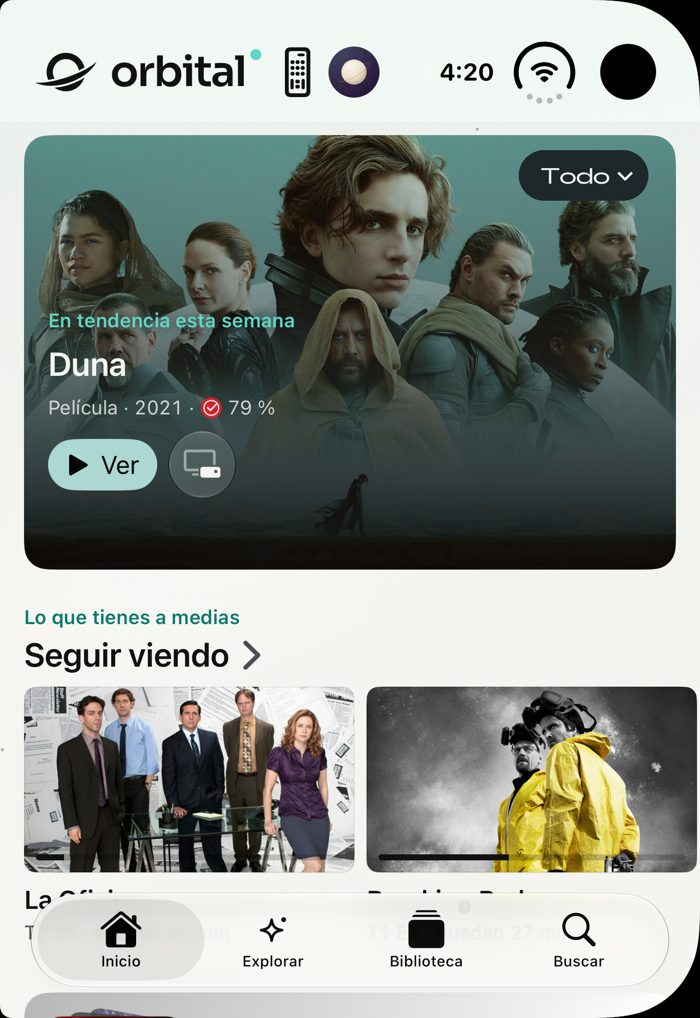
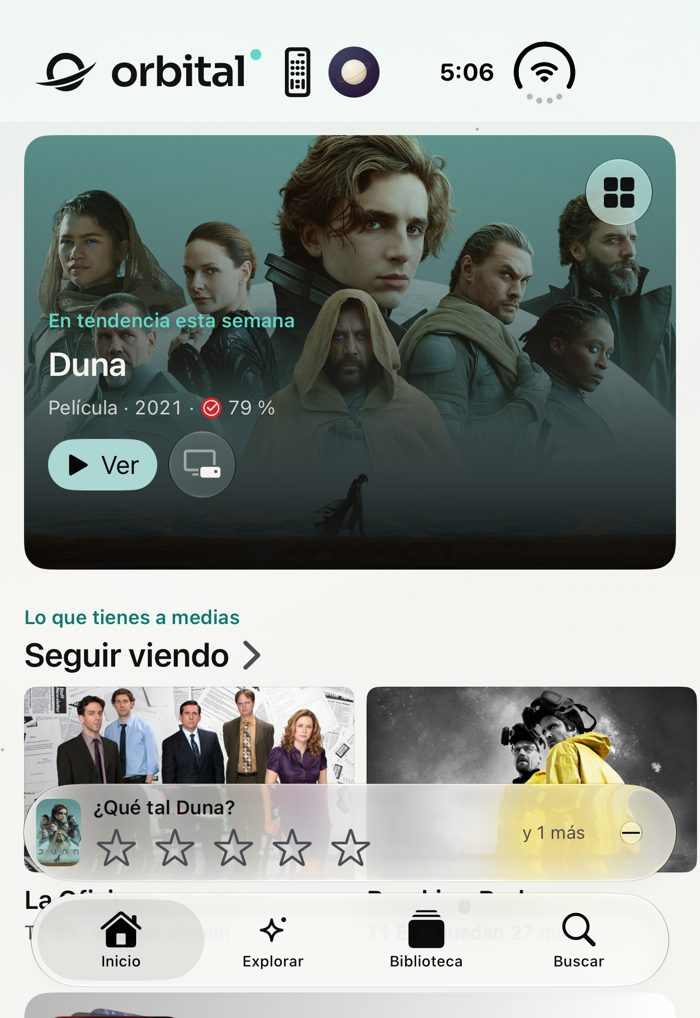
Duo: HB1-A y HB1-B construidas detrás de -demo-hb a|b (solo Debug; sin bandera, como hoy) y tocadas con HB1CaptureUITests. A: tu foto abre un globo con el filtro y Ajustes (un Menu de iOS mandaba el renglón a «…»). B: la pastilla del filtro en la esquina de la portada. Canvas con capturas reales htt

diff --git a/docs/producto/iphone-duo-2026-11-26/hb/index.html b/docs/producto/iphone-duo-2026-11-26/hb/index.html
@@ -76,36 +76,53 @@ section.decision { display: grid; gap: 14px; }
 <main>
   <div class="intro">
     <h1>Control, Ajustes y filtro en el Duo</h1>
-    <p>En el renglón de arriba del Duo cerrado caben tres cosas junto a «orbital». Hoy son el control y tu foto (Ajustes), y el filtro «Todo» se quedó fuera. Tres formas de que quepan las tres. «Hoy» es una captura real; las opciones son maquetas sobre esa captura.</p>
+    <p>Ahora son capturas reales del Duo cerrado, con los íconos que ya usa Orbital: la pastilla de vidrio del filtro (cuadritos, rollo y pantallas), el control y el engrane de Ajustes. Las dos opciones están construidas y las probé tocando.</p>
   </div>
   <section class="decision">
-    <div class="dhead"><span class="code">HB1</span><h2>Dónde va cada cosa</h2></div>
+    <div class="dhead"><h2>El problema, visto como diseño</h2></div>
+    <div class="notes">
+      <p><b>El renglón no se estira.</b> iOS fija la hora y la señal junto a la cámara. A la izquierda caben «orbital» y dos botones chicos; un tercero o un menú de iOS manda todo a «…» (lo probé).</p>
+      <p><b>Las tres cosas no pesan igual.</b> El control lo usas muchas veces al día, el filtro de vez en cuando y Ajustes casi nunca. Lo frecuente va a un toque y lo raro puede ir a dos.</p>
+      <p><b>El filtro cambia toda la página</b> (portada, «Seguir viendo», canales), no solo la portada.</p>
+    </div>
+  </section>
+  <section class="decision">
+    <div class="dhead"><span class="code">HB1</span><h2>Dónde va el filtro (y Ajustes)</h2></div>
     <div class="options">
-      <article class="opt today">
-        <header><h3>Hoy</h3><span class="tag grey">así está</span></header>
-        <img src="img/hoy.jpg" alt="Inicio en el Duo hoy: logo, control y tu foto arriba; sin el filtro" loading="lazy">
-        <ul><li class="plus">El control y Ajustes, a un toque.</li><li class="minus">No hay forma de ver solo películas o solo series.</li></ul>
-      </article>
       <article class="opt pick">
         <header><span class="code">HB1-B</span><h3>El filtro en la portada</h3><span class="tag">recomendada</span></header>
-        <div class="pair"><figure><img src="img/b-reposo.jpg" alt="El botón Todo en la esquina de la portada" loading="lazy"><figcaption>En reposo.</figcaption></figure><figure><img src="img/b-abierto.jpg" alt="El menú Todo, Películas, Series abierto sobre la portada" loading="lazy"><figcaption>Al tocar «Todo».</figcaption></figure></div>
-        <ul><li class="plus">Arriba no cambia nada: el control y Ajustes siguen a un toque.</li><li class="plus">El filtro va justo sobre lo que filtra: la portada «En tendencia». Se entiende solo.</li><li class="minus">Tapa un poco la esquina de la imagen (por eso va oscuro, como los botones de la portada).</li></ul>
+        <div class="pair">
+          <figure><img src="img/b-reposo.jpg" alt="La pastilla del filtro, recogida, en la esquina de la portada" loading="lazy"><figcaption>En reposo: un ícono en la esquina.</figcaption></figure>
+          <figure><img src="img/b-abierto.jpg" alt="La pastilla abierta con Todo, Películas y Series" loading="lazy"><figcaption>Al tocarla se abre con los tres.</figcaption></figure>
+        </div>
+        <img src="img/b-peliculas.jpg" alt="Inicio filtrado a películas: la pastilla muestra el rollo y Seguir viendo cambia" loading="lazy">
+        <ul>
+          <li class="plus">El control y tu foto siguen a un toque. Tu foto abre Ajustes, igual que en las otras pestañas.</li>
+          <li class="plus">Es la misma pastilla que el 17 Pro tiene arriba: nada nuevo que aprender. El ícono de la esquina siempre dice qué estás viendo.</li>
+          <li class="minus">Va encima del arte. Se lee bien porque es de vidrio, pero tapa un poco la esquina.</li>
+          <li class="minus">Parece que filtra solo la portada, aunque filtra toda la página.</li>
+        </ul>
       </article>
       <article class="opt">
-        <header><span class="code">HB1-A</span><h3>Todo en tu foto</h3></header>
-        <div class="pair"><figure><img src="img/a-reposo.jpg" alt="Arriba solo el logo y tu foto" loading="lazy"><figcaption>En reposo.</figcaption></figure><figure><img src="img/a-abierto.jpg" alt="Menú de tu foto con el control de la TV, el filtro y Ajustes" loading="lazy"><figcaption>Al tocar tu foto.</figcaption></figure></div>
-        <ul><li class="plus">El renglón más limpio: solo «orbital» y tu foto.</li><li class="minus">El control, que es lo que más usas, pasa a dos toques.</li><li class="minus">El filtro queda escondido en un menú que no dice que está ahí.</li></ul>
-      </article>
-      <article class="opt">
-        <header><span class="code">HB1-C</span><h3>El control abajo, el filtro arriba</h3></header>
-        <img src="img/c-reposo.jpg" alt="Arriba logo, Todo y tu foto chocando con la hora; abajo una barra del control" loading="lazy">
-        <ul><li class="plus">El control, cerca del pulgar, como cuando algo se reproduce en la TV.</li><li class="minus">Arriba no cabe: «Todo» y tu foto chocan con la hora (en la maqueta se ve), e iOS los mandaría a «…».</li><li class="minus">Abajo, una barra más sobre el contenido.</li></ul>
+        <header><span class="code">HB1-A</span><h3>Tu foto abre un globo</h3></header>
+        <div class="pair">
+          <figure><img src="img/a-reposo.jpg" alt="Arriba: orbital, el control y tu foto; la portada limpia" loading="lazy"><figcaption>En reposo: la portada limpia.</figcaption></figure>
+          <figure><img src="img/a-abierto.jpg" alt="Globo con Qué ver en Inicio, la pastilla del filtro y Ajustes" loading="lazy"><figcaption>Al tocar tu foto.</figcaption></figure>
+        </div>
+        <img src="img/a-peliculas.jpg" alt="Con Películas elegido: la pastilla dice Películas" loading="lazy">
+        <ul>
+          <li class="plus">La portada queda limpia y el globo dice para qué es («Qué ver en Inicio»).</li>
+          <li class="plus">Con un filtro puesto, tu foto lleva su ícono chiquito: se sabe que Inicio está filtrado.</li>
+          <li class="minus">Ajustes pasa a dos toques, y solo en Inicio del Duo: en las demás pestañas tu foto abre Ajustes directo.</li>
+          <li class="minus">El filtro queda escondido: hay que saber que vive en tu foto.</li>
+        </ul>
       </article>
     </div>
+    <p class="note">En las dos, el control sigue en el renglón de arriba a un toque, y en tu 17 Pro no cambia nada.</p>
   </section>
   <section class="decision">
     <div class="dhead"><h2>Mi recomendación</h2></div>
     <p class="say">HB1-B</p>
-    <p class="why"><b>Por qué:</b> lo que más usas (el control) y Ajustes se quedan a un toque, y el filtro vive donde se nota su efecto. No le quita nada al renglón de arriba. Solo cambia en el Duo; en tu 17 Pro el filtro sigue donde está.</p>
+    <p class="why"><b>Por qué:</b> deja todo a un toque, con las mismas piezas que ya conoces, y tu foto hace lo mismo en todas las pestañas. Lo que pierde (un poco de esquina de la portada) es menos que lo que A esconde.</p>
   </section>
 </main>

diff --git a/ios/App/Sources/Screens/HomeView+BarHeader.swift b/ios/App/Sources/Screens/HomeView+BarHeader.swift
@@ -13,6 +13,20 @@ extension HomeView {
     /// Sin nada en la TV, el control de tu Orbital vive en el encabezado (con algo reproduciéndose, en el accesorio de abajo).
     var showsRemote: Bool { openRemote != nil && (tvNow.model.now == nil || !Self.hasTabAccessory) }
 
+    /// HB1 (en prueba, 27 nov 2026): dónde van el filtro de Inicio y Ajustes en el Duo. «a»: tu foto abre un menú con el filtro
+    /// y Ajustes; «b»: el filtro en la esquina de la portada. Sin bandera, como hoy (sin filtro en el Duo).
+    static var hb: String {
+        #if DEBUG
+        Demo.isOn ? Demo.value(after: "-demo-hb") ?? "" : ""
+        #else
+        ""
+        #endif
+    }
+
+    var kindBinding: Binding<String> {
+        Binding(get: { home.model.spotlightKind ?? "" }, set: { home.model.spotlightKind = $0.isEmpty ? nil : $0 })
+    }
+
     @ToolbarContentBuilder var barHeader: some ToolbarContent {
         ToolbarItem(placement: .topBarLeading) { AppMark(small: true).fixedSize() }.sharedBackgroundVisibility(.hidden)
         ToolbarItem(placement: .topBarLeading) {
@@ -24,11 +38,67 @@ extension HomeView {
                     }
                         .accessibilityLabel(Text("Control de tu Orbital")).accessibilityIdentifier("home-remote")
                 }
-                ProfileButton(avatar: look.avatar)
+                if Self.hb == "a" { profileMenu } else { ProfileButton(avatar: look.avatar) }
             }
             .buttonStyle(.plain).foregroundStyle(DS.text)
             .fixedSize()
         }
         .sharedBackgroundVisibility(.hidden)
+    }
+
+    /// HB1-A: tu foto abre un panelito: arriba, qué ver en Inicio (el filtro de siempre); abajo, Ajustes. Con un `Menu` de iOS
+    /// el renglón entero se iba a «…» (probado 27 nov 2026); con un botón y su globo, no.
+    private var profileMenu: some View {
+        HomeProfilePopover(kind: kindBinding, avatar: look.avatar)
+    }
+
+    /// HB1-B: el filtro de siempre (`DSKindFilter`, recogido: solo lo que ves) en la esquina de la portada.
+    @ViewBuilder var heroKind: some View {
+        if Self.headerInBar && Self.hb == "b" {
+            DSKindFilter(kind: kindBinding, menu: true, open: $heroKindOpen).accessibilityIdentifier("home-kind-filter")
+                .padding(.top, DS.Space.s4).padding(.trailing, DS.Space.gutter + DS.Space.s4)
+        }
+    }
+}
+
+/// HB1-A (en prueba): tu foto en Inicio del Duo; al tocarla, un globo con el filtro de Inicio y Ajustes.
+struct HomeProfilePopover: View {
+    @Binding var kind: String
+    let avatar: String
+    @State private var open = false
+
+    var body: some View {
+        Button { open = true } label: {
+            AvatarImage(id: avatar)
+                .overlay(alignment: .bottomTrailing) {
+                    // Con un filtro puesto, su ícono chiquito sobre tu foto: se sabe que Inicio está filtrado.
+                    if !kind.isEmpty {
+                        Image(systemName: KindGlyph.symbol(kind)).symbolVariant(KindGlyph.variant)
+                            .font(DS.TextRecipe.badge.font).foregroundStyle(DS.bg)
+                            .padding(DS.Space.s1).background(DS.text, in: Circle())
+                            .offset(x: DS.Space.s1, y: DS.Space.s1)
+                    }
+                }
+        }
+        .accessibilityLabel(Text("Tu perfil: qué ver en Inicio y Ajustes"))
+        .accessibilityIdentifier("home-profile-menu")
+        .popover(isPresented: $open) {
+            VStack(alignment: .leading, spacing: DS.Space.s4) {
+                Text("Qué ver en Inicio").font(DS.TextRecipe.footnote.font).foregroundStyle(DS.textMuted)
+                DSKindFilter(kind: $kind)
+                Divider()
+                Button {
+                    open = false
+                    AppEnvironment.shared.ui.openSettings = true
+                } label: {
+                    Label("Ajustes", systemImage: "gearshape").font(DS.TextRecipe.body.font)
+                        .frame(maxWidth: .infinity, minHeight: DS.Size.touchTarget, alignment: .leading).contentShape(Rectangle())
+                }
+                .buttonStyle(.plain).foregroundStyle(DS.text)
+                .accessibilityIdentifier("home-profile-settings")
+            }
+            .padding(DS.Space.s6)
+            .presentationCompactAdaptation(.popover)
+        }
     }
 }

diff --git a/ios/App/UITests/HB1CaptureUITests.swift b/ios/App/UITests/HB1CaptureUITests.swift
@@ -1,0 +1,59 @@
+import XCTest
+
+/// HB1 (en prueba, 27 nov 2026): las dos formas de poner el filtro de Inicio y Ajustes en el Duo cerrado, tocadas de verdad.
+/// Guarda capturas en `ORBITAL_SHOTS` (o /tmp/orbital-shots). Solo en el Duo (iPhone ancho y bajo).
+final class HB1CaptureUITests: XCTestCase {
+    private var app: XCUIApplication!
+    private var folder: String { ProcessInfo.processInfo.environment["ORBITAL_SHOTS"] ?? "/tmp/orbital-shots" }
+
+    private func open(_ option: String) throws {
+        app = XCUIApplication()
+        app.launchArguments = ["-demo", "-demo-mute", "-demo-no-idle", "-demo-trakt", "-demo-tmdb", "-demo-console", "-demo-appearance", "light", "-demo-hb", option]
+        app.launch()
+        let f = app.windows.firstMatch.frame
+        try XCTSkipUnless(f.height > f.width && f.width / f.height > 0.6, "solo en el Duo")
+        try? FileManager.default.createDirectory(atPath: folder, withIntermediateDirectories: true)
+    }
+
+    private func shot(_ name: String) {
+        sleep(2)
+        try? app.screenshot().pngRepresentation.write(to: URL(fileURLWithPath: "\(folder)/hb1-\(name).png"))
+    }
+
+    func testA_ProfileMenuHasTheFilterAndSettings() throws {
+        try open("a")
+        let menu = app.buttons["home-profile-menu"]
+        XCTAssertTrue(menu.waitForExistence(timeout: 30), "tu foto, con su globo")
+        XCTAssertTrue(app.buttons["home-remote"].isHittable, "el control sigue a un toque")
+        shot("a-reposo")
+        menu.tap()
+        let movies = app.buttons["kind-movie"].firstMatch
+        XCTAssertTrue(movies.waitForExistence(timeout: 5), "el globo trae el filtro")
+        shot("a-abierto")
+        movies.tap()
+        sleep(2)
+        shot("a-peliculas")
+        app.buttons["home-profile-menu"].tap()
+        let settings = app.buttons["home-profile-settings"].firstMatch
+        XCTAssertTrue(settings.waitForExistence(timeout: 5), "y Ajustes")
+        settings.tap()
+        XCTAssertTrue(app.navigationBars["Ajustes"].waitForExistence(timeout: 10), "Ajustes abre")
+    }
+
+    func testB_FilterSitsOnTheHero() throws {
+        try open("b")
+        let pill = app.buttons["kind-all"].firstMatch
+        XCTAssertTrue(pill.waitForExistence(timeout: 30), "la pastilla del tipo, en la portada")
+        XCTAssertTrue(app.buttons["home-remote"].isHittable, "el control sigue a un toque")
+        XCTAssertTrue(app.buttons["Ajustes"].firstMatch.isHittable, "y tu foto")
+        shot("b-reposo")
+        pill.tap()
+        let movies = app.buttons["kind-movie"].firstMatch
+        XCTAssertTrue(movies.waitForExistence(timeout: 5), "se abre con los tres")
+        usleep(600_000)
+        shot("b-abierto")
+        movies.tap()
+        sleep(3)
+        shot("b-peliculas")
+    }
+}

diff --git a/ios/App/Sources/Screens/HomeView.swift b/ios/App/Sources/Screens/HomeView.swift
@@ -5,8 +5,9 @@ import OrbitalModels
 struct HomeView: View {
     @Environment(\.titleName) var titleName
     @Environment(AppEnvironment.self) private var env
-    @State private var home: ModelObserver<HomeModel>
+    @State var home: ModelObserver<HomeModel>
     @State var tvNow: ModelObserver<TVNowModel>
+    @State var heroKindOpen = false   // HB1-B: la pastilla del tipo en la portada (Duo, en prueba)
     @State private var inbox: ModelObserver<InboxModel>
     /// «Por lo que viste»: el mazo de lo último que viste y sus relacionadas.
     @State private var because = ModelObserver(BecauseModel(AppEnvironment.shared.services))
@@ -412,6 +413,7 @@ struct HomeView: View {
         .scrollTargetBehavior(.paging)
         .scrollPosition(id: $heroSlot)
         .clipShape(RoundedRectangle(cornerRadius: board ? DS.Radius.xxl : 0, style: .continuous))   // el tablero: la tarjeta al pasar de una a otra
+        .overlay(alignment: .topTrailing) { heroKind }
         .overlay(alignment: .bottom) {
             if !WindowMetrics.roomy {
                 PageDots(count: items.count, index: index)
